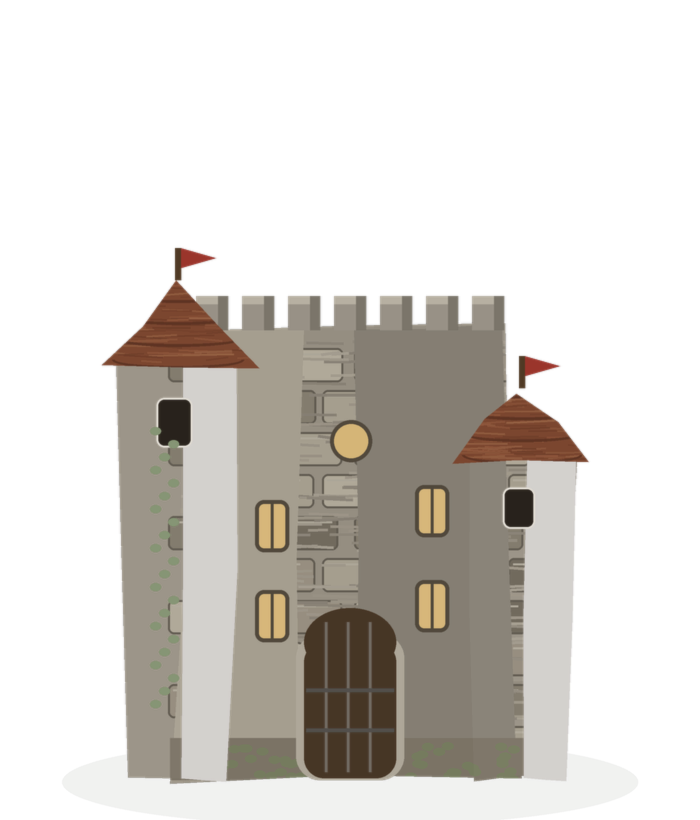
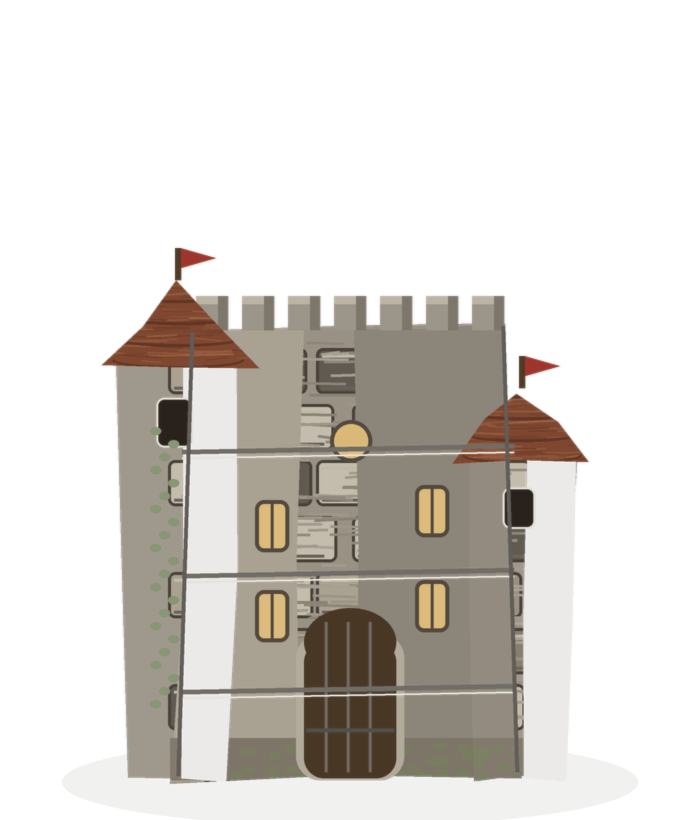
Painted 2.5D prototype P4: castle contrast at distance, terrain path network/broken fields, 12-building density, painted haze/foot-grounding - gate FAIL 6/10 (diminishing gains)

Changed region(s): [[0.24, 0.3963, 0.84, 0.9756], [0.6, 0.7012, 0.66, 0.7317]]

diff --git a/art_test/painted25d/paint_assets.py b/art_test/painted25d/paint_assets.py
@@ -246,16 +246,17 @@ for (tx, tw_, th, rh) in towers:
 # stone courses: individual shaded stones in offset rows (clipped to walls)
 lay = Image.new("RGBA", img.size, (0,0,0,0)); ld = ImageDraw.Draw(lay)
 rndc = random.Random(21)
-for ry in range(10):
-    y = 348 + ry*42
-    for cx in range(9):
-        x = 168 + cx*62 + (30 if ry % 2 else 0)
+for ry in range(8):
+    y = 348 + ry*56
+    for cx in range(8):
+        x = 168 + cx*74 + (36 if ry % 2 else 0)
         if x > 512: continue
-        c = rndc.choice([(186, 176, 156), (148, 138, 120), (198, 188, 168), (128, 118, 102), (170, 158, 140)])
-        ld.rounded_rectangle([(x*SS, y*SS), ((x+rndc.randint(44,58))*SS, (y+34)*SS)], 6*SS, fill=c+(255,), outline=(92, 84, 72, 200), width=2*SS)
-        ld.line([((x+5)*SS, (y+6)*SS), ((x+40)*SS, (y+6)*SS)], fill=(224, 216, 196, 120), width=2*SS)
+        c = rndc.choice([(216, 206, 186), (188, 176, 156), (148, 138, 120), (106, 98, 88), (170, 158, 140)])
+        ld.rounded_rectangle([(x*SS, y*SS), ((x+rndc.randint(56,72))*SS, (y+46)*SS)], 7*SS, fill=c+(255,), outline=(70, 62, 52, 230), width=3*SS)
+        ld.line([((x+6)*SS, (y+8)*SS), ((x+46)*SS, (y+8)*SS)], fill=(240, 232, 210, 150), width=3*SS)
+        ld.line([((x+6)*SS, (y+40)*SS), ((x+46)*SS, (y+40)*SS)], fill=(60, 54, 46, 130), width=3*SS)
 strokes(ld, (180, 335, 515, 770), 380, [(210, 200, 180), (128, 118, 104), (188, 176, 156)], 3, seed=23)
-ld.polygon(wob([(352,326),(505,322),(520,775),(356,778)], 5, 24), fill=(96, 90, 82, 64))       # shadow half
+ld.polygon(wob([(352,326),(505,322),(520,775),(356,778)], 5, 24), fill=(88, 82, 76, 42))       # shadow half
 ld.polygon(wob([(190,330),(300,328),(302,778),(175,780)], 5, 25), fill=(255, 244, 214, 52))    # lit edge
 ld.rectangle([170*SS, 738*SS, 525*SS, 780*SS], fill=(80, 66, 48, 84))                          # base AO
 for i in range(60):  # moss at base
@@ -271,7 +272,7 @@ for i in range(7):
 # tower roofs: shingled cones like hero house + tower shading, windows, flags
 for (tx, tw_, th, rh) in towers:
     top = 780 - th
-    d.polygon(wob([(tx+tw_*0.55, top+rh*0.4),(tx+tw_, top+rh*0.4),(tx+tw_-8, 778),(tx+tw_*0.55, 778)], 4, 14+tx), fill=(140, 130, 116, 85))
+    d.polygon(wob([(tx+tw_*0.55, top+rh*0.4),(tx+tw_, top+rh*0.4),(tx+tw_-8, 778),(tx+tw_*0.55, 778)], 4, 14+tx), fill=(140, 130, 116, 38))
     rp = wob([(tx-16, top+rh*0.45),(tx+tw_*0.5, top),(tx+tw_+16, top+rh*0.45)], 6, 15+tx)
     rm2 = Image.new("L", img.size, 0); ImageDraw.Draw(rm2).polygon(rp, fill=255)
     d.polygon(rp, fill=(146, 76, 46, 255))
@@ -297,7 +298,12 @@ for wx, wy in [(255, 500), (415, 485), (255, 590), (415, 580)]:
 for i in range(22):  # vine on left tower
     vx, vy = 150 + (i % 3)*9, 700 - i*13
     d.ellipse([(vx*SS, vy*SS), ((vx+11)*SS, (vy+8)*SS)], fill=(92, 120, 60, 180))
-finish(img, 700, 820, "castle.png", bright=0.90, sat=0.85)
+for ly in [452, 576, 692]:  # string courses across main wall
+    d.line([(182*SS, ly*SS), (514*SS, (ly-6)*SS)], fill=(72, 64, 54, 190), width=5*SS)
+    d.line([(182*SS, (ly+6)*SS), (514*SS, ly*SS)], fill=(228, 218, 196, 120), width=2*SS)
+d.line([(192*SS, 332*SS), (178*SS, 776*SS)], fill=(60, 52, 44, 200), width=4*SS)
+d.line([(503*SS, 326*SS), (517*SS, 772*SS)], fill=(60, 52, 44, 200), width=4*SS)
+finish(img, 700, 820, "castle.png", bright=0.92, sat=0.86)
 
 # ---------------- HERO PINE P3 (360x680, contact y~650): dense needle clusters ----------------
 img = canvas(360, 680); d = ImageDraw.Draw(img, 'RGBA')
@@ -346,6 +352,7 @@ img = canvas(1500, 950); d = ImageDraw.Draw(img, 'RGBA')
 shadow(d, 750, 922, 640, 26)
 sil = wob([(70,920),(210,640),(350,390),(505,190),(640,330),(800,110),(965,300),(1110,190),(1265,430),(1405,620),(1460,920)], 14, 71)
 mmask = Image.new("L", img.size, 0); ImageDraw.Draw(mmask).polygon(sil, fill=255)
+d.polygon(wob([(150,880),(300,560),(470,300),(610,120),(760,300),(900,180),(1060,360),(1240,300),(1380,560),(1420,880)], 16, 69), fill=(172, 178, 180, 255))  # far ridge, paler/hazier
 d.polygon(sil, fill=(134, 120, 104, 255))  # muted warm rock base
 lay = Image.new("RGBA", img.size, (0,0,0,0)); ld = ImageDraw.Draw(lay)
 # facet value modelling: lit planes left / shadow gullies right of each peak
@@ -393,6 +400,21 @@ for i in range(90):
     tx, ty = rndm.uniform(90, 1420), rndm.uniform(806, 892); th2 = rndm.uniform(12, 30)
     ld.polygon([((tx-7)*SS, ty*SS), (tx*SS, (ty-th2)*SS), ((tx+7)*SS, ty*SS)], fill=(44, 72, 36, 220))
 img.paste(Image.alpha_composite(img, lay), (0, 0), mmask); d = ImageDraw.Draw(img, 'RGBA')
+# painted haze: pale blue-grey bands, strongest at peaks, fading down (in the layer, not post)
+lay = Image.new("RGBA", img.size, (0,0,0,0)); ld = ImageDraw.Draw(lay)
+for i in range(30):
+    yy = 60 + i*15; aa = max(0, 120 - i*5)
+    ld.rectangle([0, yy*SS, 1500*SS, (yy+16)*SS], fill=(186, 196, 200, aa))
+img.paste(Image.alpha_composite(img, lay), (0, 0), mmask); d = ImageDraw.Draw(img, 'RGBA')
+for i in range(26):  # rocks + pines spilling below the base line onto the slope
+    bx, by = rndm.uniform(120, 1400), rndm.uniform(896, 934)
+    if i % 3: d.polygon([((bx-8)*SS, by*SS), (bx*SS, (by-rndm.uniform(14, 30))*SS), ((bx+8)*SS, by*SS)], fill=(42, 68, 34, 230))
+    else: d.ellipse([((bx-13)*SS, (by-8)*SS), ((bx+13)*SS, (by+7)*SS)], fill=(110, 100, 88, 235))
+alpha = img.split()[3]  # foot fade: alpha ramps down at the very base so it melts into terrain
+grad = Image.new("L", img.size, 255); gd = ImageDraw.Draw(grad)
+for yy in range(int(872*SS), img.size[1]):
+    gd.line([(0, yy), (img.size[0], yy)], fill=int(255 - 150*(yy-872*SS)/max(1, img.size[1]-872*SS)))
+img.putalpha(ImageChops.multiply(alpha, grad))
 finish(img, 1500, 950, "mountain.png", bright=0.94, sat=0.88)
 
 # ---------------- TERRAIN (2048x1200, top-down iso ground painting) ----------------
@@ -427,11 +449,20 @@ fields = [([(560,430),(800,430),(820,600),(580,620)], (168, 140, 88), (140, 116,
           ([(700,700),(1050,690),(1080,880),(730,900)], (86, 128, 54), (66, 106, 42)),
           ([(1150,300),(1480,290),(1500,450),(1170,460)], (172, 158, 100), (146, 132, 76)),
           ([(1250,760),(1580,740),(1600,920),(1280,940)], (150, 128, 78), (124, 104, 60))]
-for poly, fillc, rowc in fields:
+def broken(poly, seed):
+    rndb = random.Random(seed); out = []
+    for i in range(len(poly)):
+        x0, y0 = poly[i]; x1, y1 = poly[(i+1) % len(poly)]
+        for k in range(4):
+            tt = k/4.0
+            out.append((x0+(x1-x0)*tt + rndb.uniform(-13, 13), y0+(y1-y0)*tt + rndb.uniform(-13, 13)))
+    return out
+for fi, (poly0, fillc, rowc) in enumerate(fields):
+    poly = broken(poly0, 300+fi)
     d.polygon(poly, fill=fillc + (110,))
     fm = Image.new("L", img.size, 0); ImageDraw.Draw(fm).polygon(poly, fill=255)
     fl = Image.new("RGBA", img.size, (0,0,0,0)); fld = ImageDraw.Draw(fl)
-    for ry in range(min(p[1] for p in poly)+24, max(p[1] for p in poly), 34):
+    for ry in range(int(min(p[1] for p in poly))+24, int(max(p[1] for p in poly)), 34):
         fld.line([(min(p[0] for p in poly), ry), (max(p[0] for p in poly), ry+14)], fill=rowc + (95,), width=9)
     img.paste(fl, (0, 0), ImageChops.multiply(fm, fl.split()[3])); d = ImageDraw.Draw(img, 'RGBA')
     d.line(poly + [poly[0]], fill=(52, 84, 34, 170), width=10)
@@ -452,6 +483,29 @@ for i in range(90):
     py = path[seg][1]+(path[seg+1][1]-path[seg][1])*ft + random.uniform(-11, 11)
     r = random.uniform(12, 34)
     d.ellipse([px-r, py-r*0.5, px+r, py+r*0.5], fill=random.choice([(150, 118, 76), (216, 182, 124)]) + (66,))
+# --- path network connecting the actual buildings (world->texture mapping) + worn yards ---
+def T(x, z): return ((x+70)/148*2048, (z+48)/92*1200)
+nets = [[(0,-3.6),(-0.6,0.5),(-1.9,2.3)], [(-1.9,2.3),(-5.2,1.9)], [(-1.9,2.3),(4.7,2.9)],
+        [(-1.9,2.3),(-0.9,5.2)], [(-0.6,0.5),(3.2,-1.2),(8.0,-0.3),(11.2,-0.4)],
+        [(8.0,-0.3),(11.5,-4.0),(13.2,-8.5)], [(-1.9,2.3),(-7.8,5.2)], [(-5.2,1.9),(-11.0,-1.8)],
+        [(-1.9,2.3),(-3.2,6.8),(2.4,8.4)]]
+for net in nets:
+    pts = [T(x, z) for x, z in net]
+    d.line(pts, fill=(116, 92, 60, 88), width=32, joint="curve")
+    d.line(pts, fill=(204, 170, 112, 175), width=19, joint="curve")
+    for i in range(len(pts)-1):
+        for k in range(9):
+            tt = k/9.0; px = pts[i][0]+(pts[i+1][0]-pts[i][0])*tt; py = pts[i][1]+(pts[i+1][1]-pts[i][1])*tt
+            d.ellipse([px-5, py-3, px+5, py+3], fill=(140, 112, 76, 90))
+for (bx, bz) in [(0,-5.5),(-5.5,1.8),(5.0,2.8),(-0.8,5.6),(3.4,-1.6),(-8.2,5.4),(-11.5,-2.2),(8.6,6.4),(11.5,-0.5),(-13.0,2.0),(2.8,8.8),(-4.8,-3.8)]:
+    px, py = T(bx, bz+1.4)
+    d.ellipse([px-95, py-42, px+95, py+42], fill=(178, 148, 100, 62))
+for i in range(110):  # vegetated patches: dark blotch clusters at mid scale
+    vx, vy = random.uniform(480, 1720), random.uniform(240, 1060); vr = random.uniform(24, 68)
+    d.ellipse([vx-vr, vy-vr*0.55, vx+vr, vy+vr*0.55], fill=random.choice([(58, 104, 38), (72, 118, 46), (48, 92, 34)]) + (58,))
+    for k in range(7):
+        tx, ty = vx+random.uniform(-vr, vr), vy+random.uniform(-vr*0.4, vr*0.4)
+        d.line([tx, ty, tx+random.uniform(-4, 4), ty-random.uniform(8, 18)], fill=(52, 96, 36, 130), width=4)
 # worn plots under buildings + flower patches
 for (x, y, r) in [(560, 620, 150), (1180, 640, 165), (820, 330, 210), (420, 300, 110)]:
     d.ellipse([x-r, y-r*0.55, x+r, y+r*0.55], fill=(176, 148, 100, 72))
@@ -459,6 +513,12 @@ for (x, y) in [(300, 760), (1020, 860), (660, 180)]:
     for i in range(46):
         fx, fy = x + random.uniform(-95, 95), y + random.uniform(-45, 45)
         d.ellipse([fx-7, fy-5, fx+7, fy+5], fill=random.choice([(238, 96, 74), (255, 214, 84), (255, 168, 190)]) + (190,))
+for i in range(42):  # distant haze, painted into the texture (not post)
+    yy = i*15
+    d.rectangle([0, yy, 2048, yy+15], fill=(198, 206, 194, max(0, 66-i*2)))
+for i in range(18):  # richer foreground value at bottom
+    yy = 950+i*15
+    d.rectangle([0, yy, 2048, yy+15], fill=(46, 68, 36, i*2))
 img = img.filter(ImageFilter.GaussianBlur(1.2))
 img = ImageEnhance.Brightness(img).enhance(0.76)
 img = ImageEnhance.Color(img).enhance(0.68)

diff --git a/art_test/painted25d/SCORECARD_PAINTED25D_P4.md b/art_test/painted25d/SCORECARD_PAINTED25D_P4.md
@@ -1,0 +1,42 @@
+# SCORECARD — Painted 2.5D Prototype P4 (bounded, internal only)
+
+Gate: >=7/10 style match before any full asset conversion.
+**Verdict: FAIL — ~6/10 overall (P3 5.5, P2 5, P1 4). All four approved points landed,
+gains are diminishing. R68 untouched. No global shaders/post; same camera/carrier.**
+
+## Verdict on exactly the four approved points
+1. **Castle stone contrast at distance — 5.5/10 (partial).** Stones enlarged (56-72px
+   units, 8 courses), value range widened (106-216), dark mortar, top/bottom stone
+   shading lines, string courses at 3 heights, thinner tower shading so stones show
+   through. Judged on the full frame (castle ~280px tall), the main wall's stonework
+   and string courses now read; tower sides are still smoother/lighter than the centre
+   and would need stones painted per-tower-face to fully hold.
+2. **Terrain richness + clutter/path network — 5.5/10.** Field edges broken (subdivided
+   jittered polygons, wavy hedges); a painted path network now connects castle door ->
+   junction -> every house cluster, west cottages, and the mountain foot, with edge
+   stones; worn yards at all 12 buildings; 110 vegetated blotch/tuft patches; path wear.
+   The field is no longer one flat layer, but the ploughed field's straight row striping
+   still dominates the lower right and meadow texture between features stays thin.
+3. **Density / variation — 6.5/10.** Settlement now 12 buildings reusing the 3-silhouette
+   hero system with flips/tints (new: east tall house, west cottage, foreground house,
+   castle-back tall house). Density approaches the target's spread without touching the
+   carrier's walking spot — carrier still walks between houses, pine overlap intact
+   (close render).
+4. **Painted depth/atmosphere (in layers, no shaders/post) — 5.5/10.** Mountain gained
+   a paler hazier far ridge behind the main mass and painted haze bands (strongest at
+   peaks, fading down); terrain texture carries a painted value gradation (pale haze at
+   the far/back, richer foreground). Mountain foot pasted band addressed: base alpha
+   fades into the slope plus painted rocks/pines spilling below the base line — it now
+   grounds noticeably better, though a soft horizontal seam remains visible on close
+   inspection.
+
+**First-glance kind: ~6/10.** Reads as a cohesive painted storybook settlement with
+fields, path network and a hazy snow mountain. The remaining distance to the target is
+not a single named defect: it is the target illustration's overall density of unique
+detail, texture and atmosphere on every surface, which this procedural painting system
+approaches slowly (4 -> 5 -> 5.5 -> 6 across P1-P4).
+
+## Perf
+P4 full frame: **52 draw calls, 31,406 primitives** (P3: 48/31,398; R68: 288/482,213).
+
+Renders: evidence `painted25d/p4_full.png`, `painted25d/p4_close.png` (1280x800).
